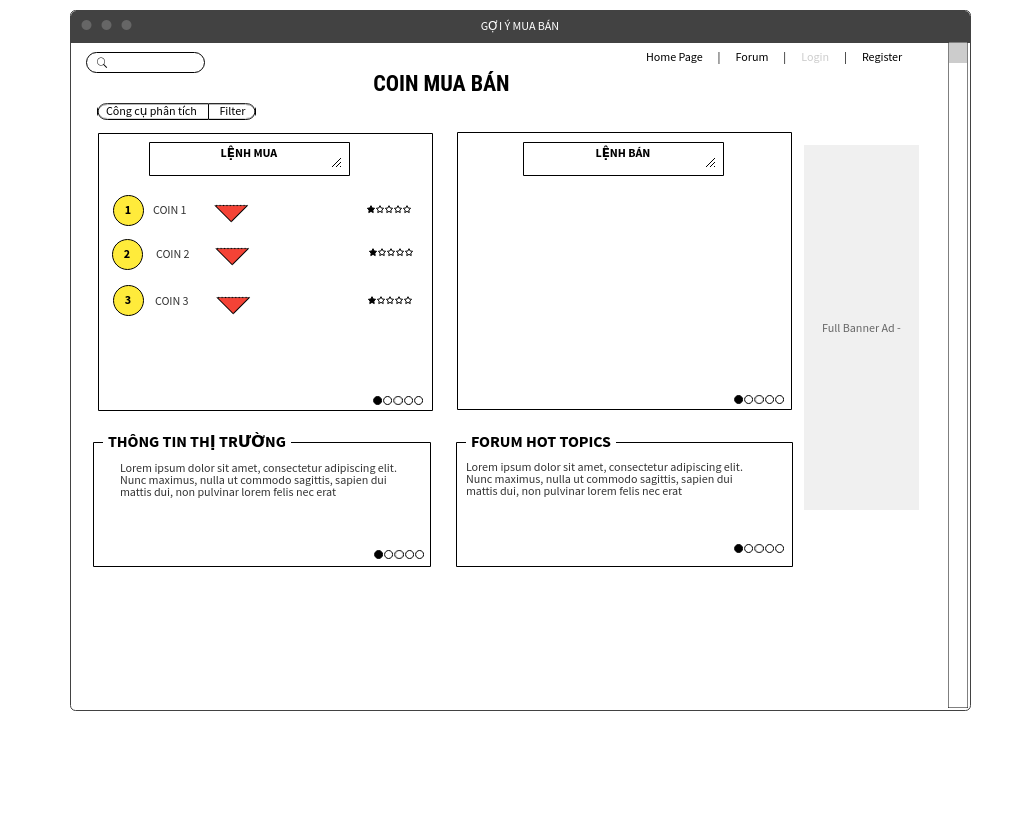
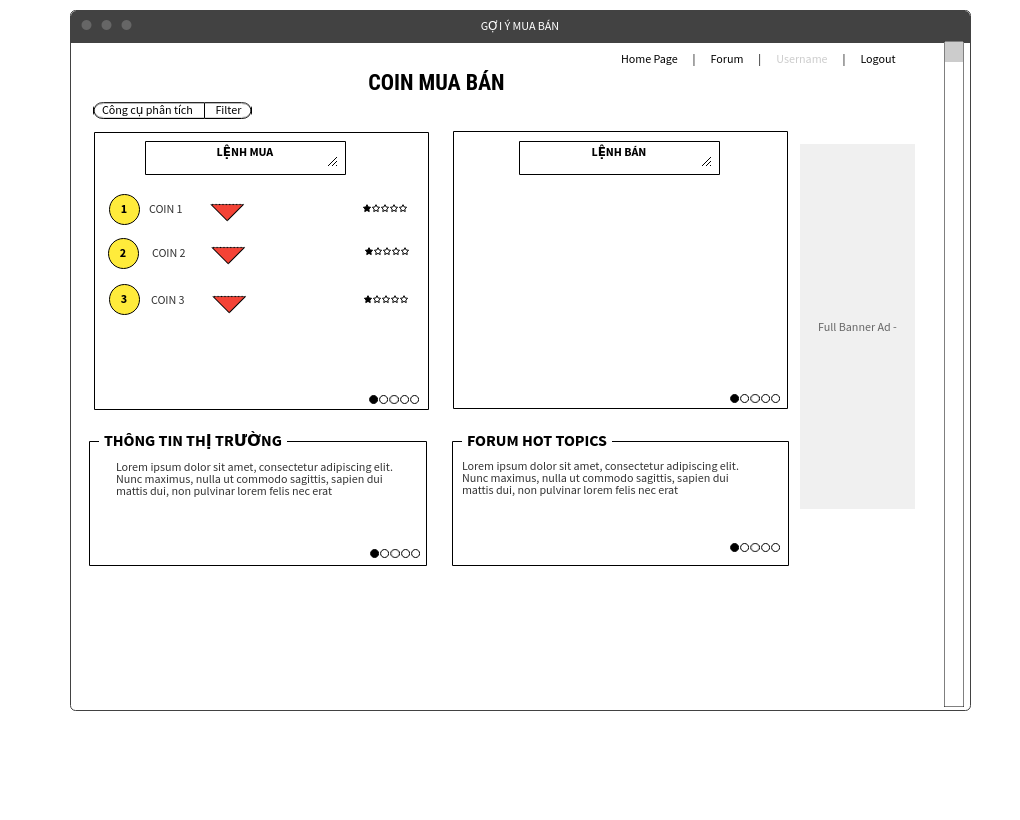
update get data coin

diff --git a/templates/mainpage.html b/templates/mainpage.html
@@ -7,6 +7,7 @@
   <body>
     <h1>GIỮ CHỖ CHO TRANG CHÍNH</h1>
     <h1>TẠM THỜI TEST FUNCTION LOGIN</h1>
-    
+    <h2>{{ coin_data }}</h2>
+
   </body>
 </html>

diff --git a/crawldata.py b/crawldata.py
@@ -1,37 +1,53 @@
-import pyexcel
 from urllib.request import urlopen
 from bs4 import BeautifulSoup
-url="https://coinmarketcap.com/"
-conn=urlopen(url)
-raw_data=conn.read()
-text=raw_data.decode("UTF8")
-soup=BeautifulSoup(text,"html.parser")
-coins=["bitcoin","ethereum","ripple"]
-# for coin in coins:
-section=soup.find("tr",id="id-bitcoin")
-td_list=section.find_all("td")
-for td in range(len(td_list)):
-    if 0 <= td <= 1:
-        continue
-    elif td == 2:
-        marketcap = td_list[td].string
-        print(float(marketcap))
-    elif td == 3:
-        market = td_list[td].a.string
-        marketcap = market.replace('$','')
-        print(float(marketcap))
-    elif td == 4:
-        market = td_list[td].a.string
-        marketcap = market.replace('$','').replace(',','')
-        print(float(marketcap))
-    elif td == 5:
-        marketcap = td_list[td].a.span.string
-        print(marketcap)
-    elif td == 6:
-        marketcap = td_list[td].string
-        print(marketcap)
-    # pyexcel.save_as(records=itune_list,dest_file_name="Itunetopsong.xlsx")
-    # options = {
-    #     'default_search': 'ytsearch',
-    #     'max_downloads': 1
-    # }
+
+def get_coin_data():
+    url="https://coinmarketcap.com/"
+    conn=urlopen(url)
+    raw_data=conn.read()
+    text=raw_data.decode("UTF8")
+    soup=BeautifulSoup(text,"html.parser")
+    coins=["bitcoin","ethereum","ripple","bitcoin-cash","eos","litecoin","tron","neo","bitcoin-gold","binance-coin"]
+    coin_data = []
+    for coin in coins:
+        section=soup.find("tr",id="id-{0}".format(coin))
+        td_list=section.find_all("td")
+        for td in range(len(td_list)):
+            if td == 0:
+                continue
+            elif td == 1:
+                image=td_list[td].find('img','logo-sprite')['src']
+                a = list(image)
+                tail = a[len(a)-3]+a[len(a)-2]+a[len(a)-1]
+                if tail != "png":
+                    if tail != "jpg":
+                        image=td_list[td].find('img','logo-sprite').get('data-src')
+                else:
+                    image=td_list[td].find('img','logo-sprite').get('src')
+                name = td_list[td].find('a','currency-name-container').string
+            elif td == 2:
+                marketcap = float(td_list[td].string)
+            elif td == 3:
+                price = td_list[td].a.string
+                price = float(price.replace('$',''))
+            elif td == 4:
+                volume = td_list[td].a.string
+                volume = float(volume.replace('$','').replace(',',''))
+            elif td == 5:
+                supply = td_list[td].a.span.string
+                supply = float(supply.replace('$','').replace(',',''))
+            elif td == 6:
+                change = td_list[td].string
+                change = float(change.replace('%','')) #unit of change is percentage (%)
+        coin_dict = {
+            "name": name,
+            'image': image,
+            "marketcap": marketcap,
+            "price": price,
+            "volume": volume,
+            "supply": supply,
+            "change": change
+        }
+        coin_data.append(coin_dict)
+
+    return coin_data

diff --git a/app.py b/app.py
@@ -1,5 +1,8 @@
 from flask import *
 from mongoengine import *
+from urllib.request import urlopen
+from bs4 import BeautifulSoup
+from crawldata import get_coin_data
 import mlab
 from models.user import User
 
@@ -52,7 +55,7 @@ def login():
             return render_template('error.html')
         else:
             session['loggedin'] = True
-            return render_template('mainpage.html')
+            return redirect(url_for('mainpage'))
 
 
 @app.route('/logout')
@@ -62,6 +65,11 @@ def logout():
         return redirect(url_for('index'))
     else:
         return redirect(url_for('index'))
+
+@app.route('/mainpage')
+def mainpage():
+    coin_data = get_coin_data()
+    return render_template('mainpage.html', coin_data=coin_data)
 
 
 if __name__ == '__main__':
